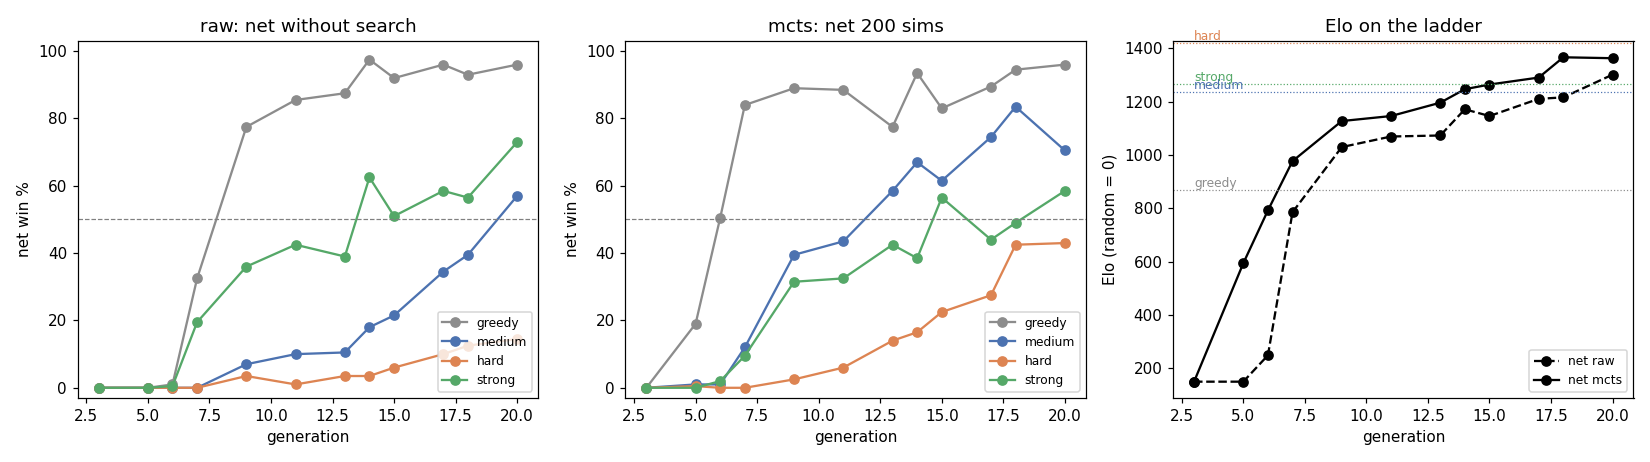
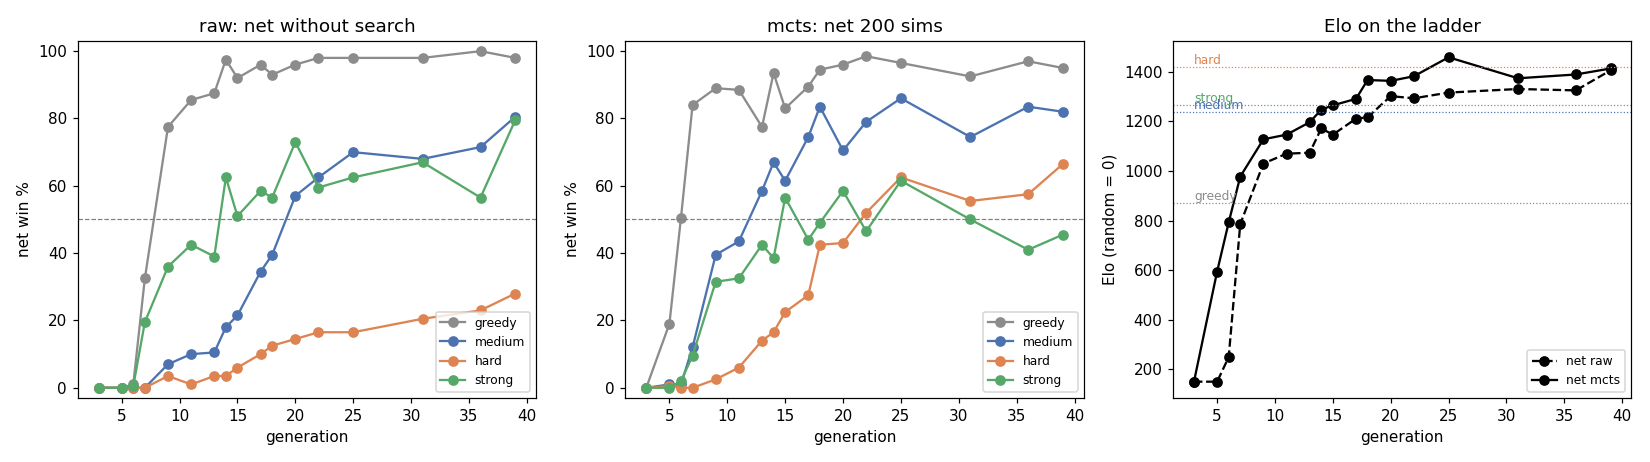
dot2s finished (6 rejects at gen 45): best gen 25 MCTS 1458, gen 39 12-8 vs real Hard; plot and logs

diff --git a/docs/overnight.md b/docs/overnight.md
@@ -857,3 +857,28 @@ training"; no 7x10; Dot-2 is 6x64; Dot level = MCTS ladder Elo >= 2100 and
   standalone check were fine. Not reproduced. Also `--moves N` with
   --screenshot did not stop the game early on either board (it waits for
   the judge's verdict); pre-existing.
+
+## 2026-10-29 (night) — dot2s finished, app trains on 10x7
+
+- dot2s resumed at 01:27 in tmux `dot2s`; the 6.0 h pause (19:27-01:27) was
+  added to state.json `started` / `paused_s`. It stopped at 10:24 by the
+  rule (gens 40-45 rejected) after ~16.5 h of training. Ladder best: gen 25,
+  MCTS 1458 (just above hard 1420); gen 39 (last accepted) 1413, but its
+  raw policy reached 1406. Bridge vs the real Hard on 10x7, 20 games each,
+  played after the stop (no bridge runs between generations): gen 25 6-14,
+  gen 39 12-8. dot2c gen 16 stays far ahead (1755, 19-0-1) in ~6 h: the
+  curriculum wins clearly at equal and at triple the hours. The ladder and
+  the bridge disagree on gen 25 vs 39 (20 games, wide intervals).
+- docs/dot2c_vs_dot2s.png now draws raw-policy Elo (dashed) next to MCTS
+  Elo, with the medium / hard / strong4 lines.
+- App: "Train your own Dot" picks the board; 10x7 starts from
+  configs/dot2s.yaml (`train.base_configs`), without its compare_plot and
+  bridge_eval. An existing run keeps its train.yaml board (the panel says
+  so). The "trained on 5x5, cannot play 10x7" refusal is gone; a size
+  without a configured network says "no network for WxH yet".
+  "Play my Dot" switches the menu to the run's board.
+- Fix: `--moves` with --screenshot never stopped "network vs itself" when
+  the saved settings had show_mine on (it waited for a review of a human
+  move). Probably the same cause as the KSquares-mode note of 10-28; not
+  rechecked there. docs/app_10x7.png: move 100 with the chain analysis.
+- runs/best10x7 stays dot2c gen 16.

diff --git a/docs/dot2s_ladder.md b/docs/dot2s_ladder.md
@@ -1,6 +1,6 @@
 # AlphaZero 10x7 (dot2s) — ladder per accepted generation
 
-Generated by `scripts/az_eval.py` from `runs/dot2s` (2026-10-28 19:23). Win % of the net, 100 games per cell, first mover alternating; raw = policy argmax without search, mcts = 200 simulations. Elo: Bradley-Terry vs the fixed ladder anchors, random = 0. strong here: {'node_budget': 14400}.
+Generated by `scripts/az_eval.py` from `runs/dot2s` (2026-10-29 08:28). Win % of the net, 100 games per cell, first mover alternating; raw = policy argmax without search, mcts = 200 simulations. Elo: Bradley-Terry vs the fixed ladder anchors, random = 0. strong here: {'node_budget': 14400}.
 
 Anchor Elo (from the ladder in ['docs/ladder_10x7.json', 'docs/ladder_10x7_s4.json']): random 0, greedy 870, easy 873, medium 1237, hard 1420, strong 1267, strong4 1462.
 
@@ -18,3 +18,8 @@ Anchor Elo (from the ladder in ['docs/ladder_10x7.json', 'docs/ladder_10x7_s4.js
 | 17 | 64 | 96 | 34 | 10 | 58 | 1211 | 90 | 74 | 28 | 44 | 1291 |
 | 18 | 61 | 93 | 40 | 12 | 56 | 1216 | 94 | 84 | 42 | 49 | 1367 |
 | 20 | 60 | 96 | 57 | 14 | 73 | 1302 | 96 | 70 | 43 | 58 | 1363 |
+| 22 | 64 | 98 | 62 | 16 | 60 | 1293 | 98 | 79 | 52 | 46 | 1382 |
+| 25 | 60 | 98 | 70 | 16 | 62 | 1316 | 96 | 86 | 62 | 62 | 1458 |
+| 31 | 67 | 98 | 68 | 20 | 67 | 1330 | 92 | 74 | 56 | 50 | 1374 |
+| 36 | 60 | 100 | 72 | 23 | 56 | 1325 | 97 | 84 | 58 | 41 | 1389 |
+| 39 | 63 | 98 | 80 | 28 | 80 | 1406 | 95 | 82 | 66 | 46 | 1413 |

diff --git a/docs/dot2c_vs_dot2s.md b/docs/dot2c_vs_dot2s.md
@@ -1,6 +1,6 @@
 # dot2c vs dot2s: Elo against hours of training
 
-Generated by `scripts/elo_vs_time.py` (2026-10-29 01:28). Hours = summed self-play + train + gate time up to the generation (pauses excluded). Elo on the 10x7 ladder, anchors: random 0, greedy 870, easy 873, medium 1237, hard 1420, strong 1267, strong4 1462.
+Generated by `scripts/elo_vs_time.py` (2026-10-29 10:25). Hours = summed self-play + train + gate time up to the generation (pauses excluded). Elo on the 10x7 ladder, anchors: random 0, greedy 870, easy 873, medium 1237, hard 1420, strong 1267, strong4 1462.
 
 ![](dot2c_vs_dot2s.png)
 
@@ -27,3 +27,8 @@ Generated by `scripts/elo_vs_time.py` (2026-10-29 01:28). Hours = summed self-pl
 | dot2s | 17 | 6.6 | 1291 | 1211 |
 | dot2s | 18 | 7.0 | 1367 | 1216 |
 | dot2s | 20 | 7.7 | 1363 | 1302 |
+| dot2s | 22 | 8.5 | 1382 | 1293 |
+| dot2s | 25 | 9.6 | 1458 | 1316 |
+| dot2s | 31 | 11.8 | 1374 | 1330 |
+| dot2s | 36 | 13.7 | 1389 | 1325 |
+| dot2s | 39 | 14.8 | 1413 | 1406 |

diff --git a/docs/results.md b/docs/results.md
@@ -390,3 +390,17 @@ Gen 16 vs the real KSquares Hard over the bridge (scripts/az_vs_hard.py,
 10x7, MCTS 200, 8 leaves per round, first mover alternating): **19-0-1**
 (lost none; margins +2 to +28 boxes). Before 10x7 training (dot2a gen 1)
 the same protocol gave 3-17.
+
+## dot2s: Dot-2 from scratch on 10x7, step (c) arm S (2026-10-29)
+
+configs/dot2s.yaml, random init, 10x7 self-play only. Stopped by 6 rejected
+generations in a row at gen 45 after ~16.5 h of training (of 24 h; pauses
+excluded). Accepted: 3 5 6 7 9 11 13 14 15 17 18 20 22 25 31 36 39.
+
+| | gen | hours | MCTS Elo | raw Elo | vs real Hard (bridge, 20 games) |
+|---|---:|---:|---:|---:|---:|
+| dot2s best by ladder | 25 | 9.6 | 1458 | 1316 | 6-14 (30%) |
+| dot2s last accepted | 39 | 14.8 | 1413 | 1406 | 12-8 (60%) |
+| dot2c (curriculum) | 16 | 5.9 | 1755 | 1457 | 19-0-1 |
+
+Anchors: medium 1237, hard 1420, strong4 1462. Plot: docs/dot2c_vs_dot2s.png.
